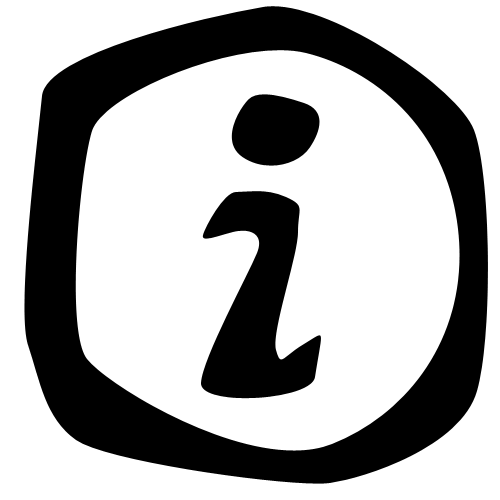
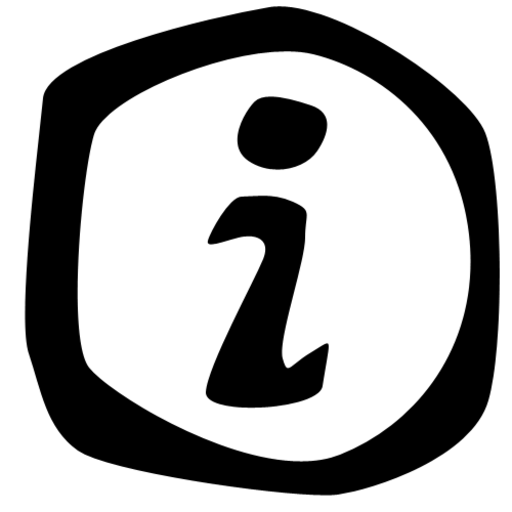
Fix ugly artifacts in scaled textures
Force to use mip mapping:
- add helper MipmapSprite class for normal sprites,
- tweak internals of spine for animations.

Rescale menu graphics (dimensions must be power of 2), graphics for items
are still TODO.

diff --git a/Classes/Base/RUBELayer.cpp b/Classes/Base/RUBELayer.cpp
@@ -10,6 +10,8 @@
 #include "b2dJson.h"
 #include "b2dJsonImage.h"
 
+#include "MipmapSprite.h"
+
 #include <spine/spine-cocos2dx.h>
 
 using namespace std;
@@ -72,7 +74,7 @@ Node *RUBELayer::createNodeFromRubeImageInfo(RUBEImageInfo *imageInfo)
     Node *node = nullptr;
 
     if (imageInfo->file.substr(imageInfo->file.find_last_of(".") + 1) == "png") {
-        auto sprite = Sprite::create(imageInfo->file.c_str());
+        auto sprite = /*Mipmap*/ Sprite::create(imageInfo->file.c_str());
         sprite->setFlippedX(imageInfo->flip);
 
         node = sprite;

diff --git a/cocos2d/cocos/editor-support/spine/spine-cocos2dx.cpp b/cocos2d/cocos/editor-support/spine/spine-cocos2dx.cpp
@@ -36,6 +36,12 @@ USING_NS_CC;
 void _spAtlasPage_createTexture (spAtlasPage* self, const char* path) {
 	Texture2D* texture = Director::getInstance()->getTextureCache()->addImage(path);
 	texture->retain();
+
+	texture->generateMipmap();
+	Texture2D::TexParams texParams = { GL_LINEAR_MIPMAP_LINEAR, GL_LINEAR,
+		GL_CLAMP_TO_EDGE, GL_CLAMP_TO_EDGE };
+	texture->setTexParameters(texParams);
+
 	self->rendererObject = texture;
 	self->width = texture->getPixelsWide();
 	self->height = texture->getPixelsHigh();

diff --git a/Classes/Menu/MenuItemButton.cpp b/Classes/Menu/MenuItemButton.cpp
@@ -1,12 +1,14 @@
 #include "MenuItemButton.h"
 
+#include "MipmapSprite.h"
+
 USING_NS_CC;
 
 MenuItemButton *MenuItemButton::create(const std::string &imagePath, const ccMenuCallback &callback)
 {
     MenuItemButton *ret = new (std::nothrow) MenuItemButton();
 
-    auto sprite = Sprite::create("menu/" + imagePath + ".png");
+    auto sprite = MipmapSprite::create("menu/" + imagePath + ".png");
     auto bgSprite = Sprite::create("menu/" + imagePath + "_bg.png");
 
     bgSprite->setOpacity(192);

diff --git a/Classes/Base/MipmapSprite.cpp b/Classes/Base/MipmapSprite.cpp
@@ -1,0 +1,15 @@
+#include "MipmapSprite.h"
+
+USING_NS_CC;
+
+Sprite *MipmapSprite::create(const std::string &filename)
+{
+    Sprite *sprite = Sprite::create(filename);
+
+    sprite->getTexture()->generateMipmap();
+    Texture2D::TexParams texParams = {GL_LINEAR_MIPMAP_LINEAR, GL_LINEAR, GL_CLAMP_TO_EDGE,
+                                      GL_CLAMP_TO_EDGE};
+    sprite->getTexture()->setTexParameters(texParams);
+
+    return sprite;
+}

diff --git a/Classes/Base/MipmapSprite.h b/Classes/Base/MipmapSprite.h
@@ -1,0 +1,12 @@
+#ifndef MIPMAP_SPRITE_H
+#define MIPMAP_SPRITE_H
+
+#include <2d/CCSprite.h>
+
+class MipmapSprite : public cocos2d::Sprite
+{
+  public:
+    static Sprite *create(const std::string &filename);
+};
+
+#endif /* MIPMAP_SPRITE_H */
